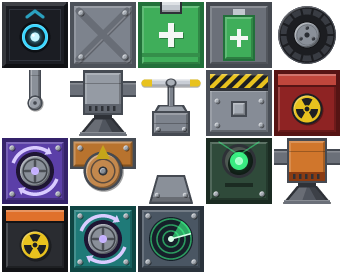
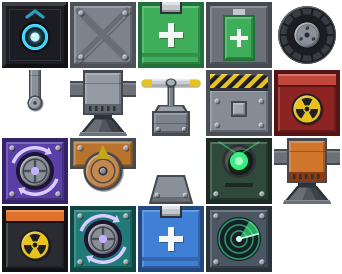
Dense battery part (Logan, Gate 7): 6000 J in one cell (the battery holds 1500), 3 kg, blue, legend Z

Changed region(s): [[0.3801, 0.7299, 0.8187, 0.9927]]

diff --git a/packages/cli/test/parts.test.ts b/packages/cli/test/parts.test.ts
@@ -6,7 +6,7 @@ describe('parts', () => {
   const rows = partRows(defaultRegistry());
 
   it('has a row per part in builder order, with its key and legend tokens', () => {
-    expect(rows.map((r) => r.key)).toEqual(['1', '2', '3', '4', '5', '6', '7', '8', '9', '0', '-', '=', ';', "'", '/', '']);
+    expect(rows.map((r) => r.key)).toEqual(['1', '2', '3', '4', '5', '6', '7', '8', '9', '0', '-', '=', ';', "'", '/', '', '']);
     const thruster = rows.find((r) => r.id === 'thruster');
     expect(thruster).toMatchObject({ key: '5', legend: ['T^', 'T<', 'Tv', 'T>'], mass: 1, health: 25, faces: ['N', 'E', 'W'], power: 20 });
     expect(thruster?.details.join('\n')).toContain('maxForce 160 N');
@@ -16,6 +16,7 @@ describe('parts', () => {
     expect(rows.find((r) => r.id === 'booster')).toMatchObject({ key: "'", legend: ['K^', 'K<', 'Kv', 'K>'], power: 60 });
     expect(rows.find((r) => r.id === 'heavywarhead')).toMatchObject({ key: '/', legend: ['H'] });
     expect(rows.find((r) => r.id === 'heavygyro')).toMatchObject({ key: '', legend: ['Y'] }); // no builder key left: picked from the palette
+    expect(rows.find((r) => r.id === 'densebattery')).toMatchObject({ key: '', legend: ['Z'] });
   });
 
   it('describes what each part does from its definition', () => {

diff --git a/packages/app/scripts/gen-placeholders.ts b/packages/app/scripts/gen-placeholders.ts
@@ -277,10 +277,9 @@ function drawFrame(): Canvas {
   return cv;
 }
 
-function drawBattery(): Canvas {
+function drawBattery(green = hex('#3fae5a'), edge = hex('#22703a')): Canvas {
   const cv = new Canvas(CELL, CELL);
-  const green = hex('#3fae5a');
-  plate(cv, 0, 0, CELL, CELL, green, hex('#22703a'), 3);
+  plate(cv, 0, 0, CELL, CELL, green, edge, 3);
   // Terminal nub on the top (N) edge.
   cv.fill(rect(21, 0, 43, 11), DARK_METAL);
   cv.fill(rect(23, 0, 41, 9), hex('#c3c8cf'));
@@ -825,6 +824,8 @@ function main(): void {
     { name: 'part.heavywarhead', canvas: drawWarhead(hex('#2a2c31'), hex('#121316'), hex('#e0712c')) },
     // Heavy gyro: the gyro in dark teal.
     { name: 'part.heavygyro', canvas: drawGyro(hex('#1f7a78'), hex('#0f4543')) },
+    // Dense battery (Logan): the battery in blue.
+    { name: 'part.densebattery', canvas: drawBattery(hex('#3f7fd6'), hex('#224a80')) },
     { name: 'part.radar', canvas: drawRadar() },
   ];
   const partsSheet = packSheet(parts, 'parts.png');

diff --git a/packages/sim-core/test/partDefs.test.ts b/packages/sim-core/test/partDefs.test.ts
@@ -34,6 +34,7 @@ describe('default part defs', () => {
       'booster',
       'heavywarhead',
       'heavygyro',
+      'densebattery',
     ]);
   });
 
@@ -43,7 +44,7 @@ describe('default part defs', () => {
 
   it('health (M6): frames are armor, propellers are fragile', () => {
     const health = Object.fromEntries(defaultRegistry().list().map((d) => [d.id, d.health]));
-    expect(health).toEqual({ core: 50, frame: 60, battery: 30, wheel: 25, thruster: 25, propeller: 15, decoupler: 30, warhead: 20, gyro: 30, rotator: 40, cell: 10, seeker: 20, radar: 40, booster: 25, heavywarhead: 20, heavygyro: 30 });
+    expect(health).toEqual({ core: 50, frame: 60, battery: 30, wheel: 25, thruster: 25, propeller: 15, decoupler: 30, warhead: 20, gyro: 30, rotator: 40, cell: 10, seeker: 20, radar: 40, booster: 25, heavywarhead: 20, heavygyro: 30, densebattery: 30 });
   });
 
   it('the warhead explodes when destroyed and breaks on a hard hit', () => {

diff --git a/packages/sim-core/test/validate.test.ts b/packages/sim-core/test/validate.test.ts
@@ -29,7 +29,7 @@ describe('validateBlueprint', () => {
     expect(i).toEqual({
       severity: 'error',
       code: 'UNKNOWN_PART',
-      message: "zap@0,0 uses part 'zap', which does not exist (known: core, frame, battery, wheel, thruster, propeller, decoupler, warhead, gyro, rotator, cell, seeker, radar, booster, heavywarhead, heavygyro)",
+      message: "zap@0,0 uses part 'zap', which does not exist (known: core, frame, battery, wheel, thruster, propeller, decoupler, warhead, gyro, rotator, cell, seeker, radar, booster, heavywarhead, heavygyro, densebattery)",
       partId: 'zap@0,0',
       cell: { x: 0, y: 0 },
     });

diff --git a/packages/sim-core/src/parts/registry.ts b/packages/sim-core/src/parts/registry.ts
@@ -16,6 +16,7 @@ import radar from './defs/radar.json';
 import booster from './defs/booster.json';
 import heavywarhead from './defs/heavywarhead.json';
 import heavygyro from './defs/heavygyro.json';
+import densebattery from './defs/densebattery.json';
 
 export class PartRegistry {
   private readonly defs = new Map<string, PartDef>();
@@ -64,6 +65,7 @@ const SHIPPED: Array<[string, unknown]> = [
   ['booster.json', booster],
   ['heavywarhead.json', heavywarhead],
   ['heavygyro.json', heavygyro],
+  ['densebattery.json', densebattery],
 ];
 
 let shipped: PartRegistry | null = null;

diff --git a/packages/sim-core/src/blueprint/legend.ts b/packages/sim-core/src/blueprint/legend.ts
@@ -8,6 +8,7 @@ export const DEFAULT_LEGEND: Readonly<Record<string, LegendEntry>> = {
   C: { part: 'core' },
   F: { part: 'frame' },
   B: { part: 'battery' },
+  Z: { part: 'densebattery' },
   E: { part: 'cell' },
   X: { part: 'warhead' },
   G: { part: 'gyro' },
